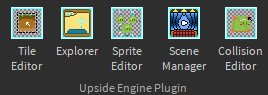
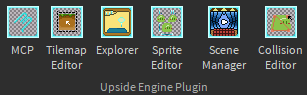
docs: Added Tilemap Editor & MCP tutorial

diff --git a/docs/tutorials/plugin-guide/TilemapEditor.md b/docs/tutorials/plugin-guide/TilemapEditor.md
@@ -1,0 +1,55 @@
+On this page, you will learn an essential tool to make scenarios.
+
+![](../../assets/upsideenginebar.png)
+
+## Introduction to Tilemap Editor
+Click on the Tilemap Editor button, and a new window named "Tilemap Editor" will appear. In this interface, you can easily import any tilemap.
+
+Within the Tilemap Editor, you'll find some buttons and fields:
+
+- **Tilemap Name:** The name of the tilemap.
+- **Tilemap URL:** The URL of your tilemap.
+- **Tilemap Size:** Specify the dimensions to determine the size of your tile on the tile palette.
+- **Tilemap Scale:** Specify how big the tile should be in scene
+- **Open in Tile Palette:** Click here to open the Tile Palette window which based on the tilemap settings, a new window will appear, which you will be able to use to place your tiles in the scene
+- **Save tilemap:** Click here to save your tilemap in the right section
+
+![](../../assets/tilemapeditor.png)
+
+
+## Tilemap Palette
+For this example we will use a tile palette from this [itch.io asset pack](https://pixel-poem.itch.io/dungeon-assetpuck) made by [pixel poem](https://pixel-poem.itch.io/)
+![](../../assets/tileeditorinfo.png)
+
+Let's click 'Open in the tile palette', a window like this will appear:
+
+![](../../assets/tilepalette.png)
+
+If you move the mouse over the tiles you will see that every tile can be selected, the first tile is selected by default as you can see, that's why it has a more intense color, also as you saw on the screenshot, there is a section called "Tile Settings", this section represent the properties of the selected tile:
+
+![](../../assets/tilepalettesettings.png)
+
+As you can imagine, zIndex represent the z index of the selected tile, canCollide represent if the tile can collide or not, and the name, is just the tile name, anyway, if you want to use the MCP, it's highly recommended to set a name for the tiles, because the AI will not be able to see tiles without names
+
+## A basic usage
+Let's do a basic configuration, don't forget to enable the "grid" and "place tile" modes, this will create a new environment called "Tile Env" in the scene.
+
+![](../../assets/tilepalette.png)
+
+
+Now, Let's build something, select any tile you want and let's hold the left click while we move the mouse
+
+<video width="700" controls>
+  <source src="../../assets/drawingtiles.mp4" type="video/mp4">
+</video>
+
+You can delete any tile in the same way you place it, just hold ++left-shift++ this time
+
+<video width="700" controls>
+  <source src="../../assets/deletetiles.mp4" type="video/mp4">
+</video>
+this will delete any tile if it's the same tile, if you want to delete any tile hold ++left-ctrl++ instead.
+
+___
+##### Congratulations! you are ready to make any scenario. Let's move on to the next page 🎉🎉 
+

diff --git a/docs/tutorials/plugin-guide/MCPGuide.md b/docs/tutorials/plugin-guide/MCPGuide.md
@@ -1,0 +1,38 @@
+### Using the Upside Engine MCP Plugin
+
+In this page, you will learn how to use the MCP (Model Context Protocol) for the Upside Engine plugin. If you are not interested in integrating the Upside Engine plugin with AI, you can skip this page.
+
+To follow along, make sure you have **Claude Desktop** or **Cursor** installed, as they are required to connect the plugin with a Large Language Model (LLM).
+
+---
+
+### Setup
+
+Once you have Claude Desktop or Cursor installed, follow the installation guide for the [Upside Engine MCP](https://github.com/notreux/UpsideEngineMCP). After completing the setup, open Claude Desktop or Cursor. You will find two new tools available:
+
+- `get_tilemap`
+- `place_tiles`
+
+These tools allow the LLM to create scenarios using the plugin. Currently, only these two tools exist, but more may be added in the future.
+
+---
+
+### Important Notes
+
+For the LLM to function correctly, **every tile you want it to use must have a name**. If a tile is unnamed, the LLM will not be able to see it.
+
+In the image below, the first tile is named **"LeftWall"**. Be sure to give your tiles very descriptive names. For example, instead of simply **"LeftWall"**, a more informative name like **"LeftTopCornerWall"** provides much clearer context for the LLM. Since tile names are the only reference the LLM has for placement, descriptive naming is key.
+
+![](../../assets/tilepalette.png)
+
+
+## Example
+The model that we recommend is `Claude 4.1 opus`, because it usually give better results than other models.
+
+### Prompt
+> Using Upside Engine, create a basic scenario for a 2D top-down game about a dungeon
+
+!!! Output
+    ![](../../assets/mcpresult.png)
+
+As you can see, the result is not perfect, but it can be very useful to speed up the scenario building process.

diff --git a/docs/tutorials/reactive-label/Introduction.md b/docs/tutorials/reactive-label/Introduction.md
@@ -63,7 +63,7 @@ Some of the most important properties of `ReactiveLabel` include:
 - **Animated** : `boolean`  
   Enables or disables all animation behavior (default: `true`).
 
-> 🔍 For a full list of configurable properties, check the [API Reference](../../documentation/autogen/ReactiveLabel.html).
+> 🔍 For a full list of configurable properties, check the [API Reference](../../documentation/autogen/ReactiveLabel.md).
 
 ---
 
@@ -115,7 +115,7 @@ This loop updates the name and dialog content dynamically, allowing for animated
 - Supports rich text formatting and animations using custom tags.
 - Text playback speed and behavior can be fine-tuned via properties like `CharactersPerSecond` and `PauseDelays`.
 - Sound effects for typing can be customized with `TypingSoundId` and `TypingSoundVolume`.
-- Additional customization options are available in the [API Reference](../../documentation/autogen/ReactiveLabel.html).
+- Additional customization options are available in the [API Reference](../../documentation/autogen/ReactiveLabel.md).
 
 ---
 
